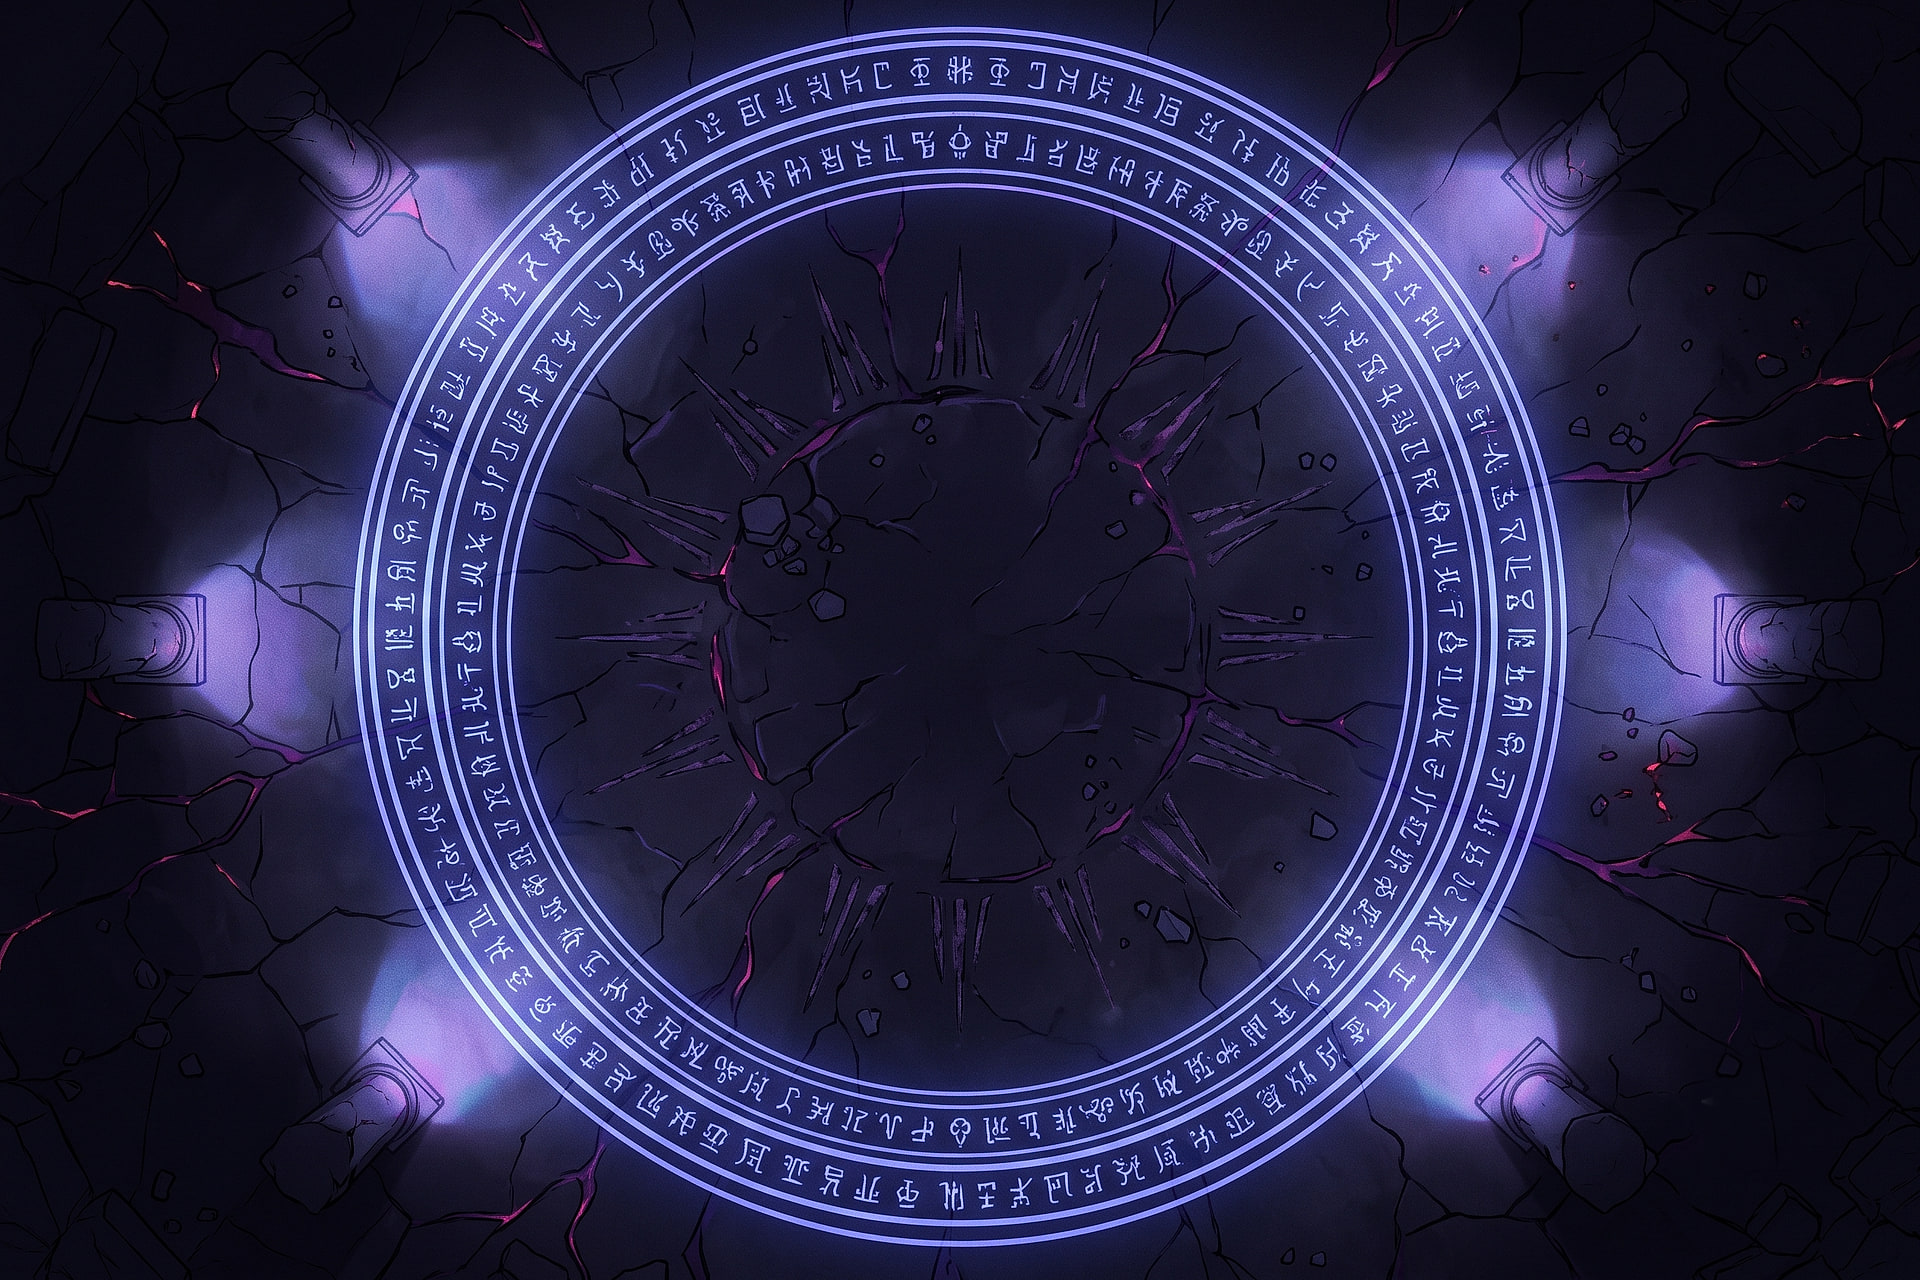
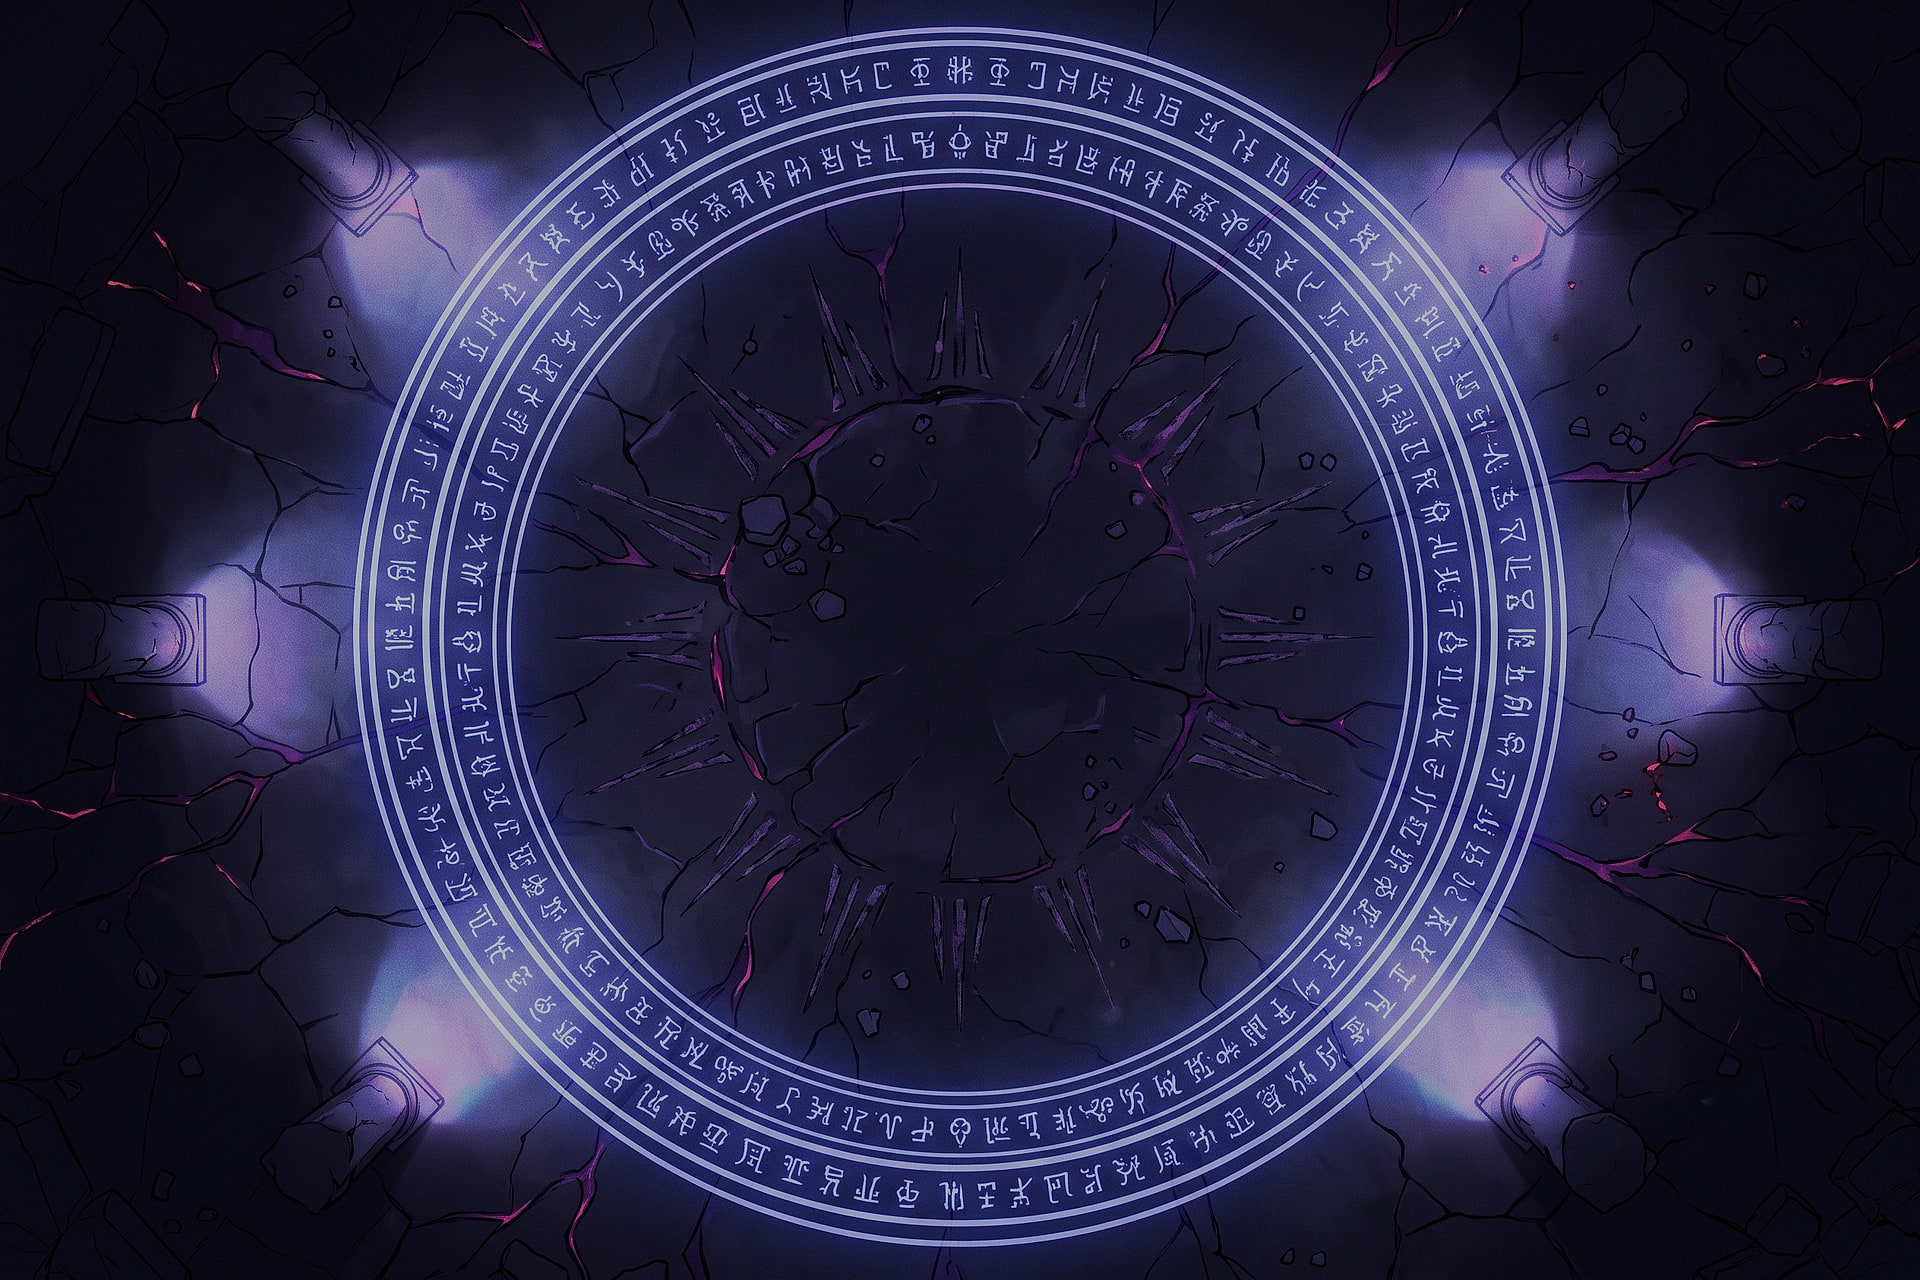
feat(render): 보스 배경 링 감광 + 사수 AI 스프라이트 적용
배경 위에서 몹이 씻겨나가는 문제와, AI 스프라이트를 적 색 구분 체계에 맞춰 넣는
작업을 함께 처리한다.

보스 배경 — 하이라이트 롤오프
- 전체를 어둡게 하면 바닥까지 죽으므로 밝은 영역만 선택적으로 감쇠하는 톤커브를
  적용(knee 0.40 / 최대 42%, 피크 255→191). 글리프 링이 부드러워져 그 위에 올라간
  몹·플레이어가 대비를 유지한다. 어두운 바닥·질감은 그대로.

사수 스프라이트
- 적은 색으로 구분된다(추격자 핑크 / 사수 주황 / 분열체 보라 / 파수꾼 청회색).
  AI 원본이 보라 계열이라 그대로 넣으면 분열체와 혼동되므로, 스프라이트를 무채색으로
  저장하고 인게임에서 타입 색을 틴트로 입힌다. 엘리트 변종 틴트에도 그대로 쓰인다.
- 검정 배경 + ADD 블렌딩이라 누끼가 필요 없다(실측: 배경 위에서 검은 사각 없이 합성).
- 텍스처가 없으면 기존 도형으로 폴백해 게임은 항상 동작한다.
- enemyJuice.playHitReact가 Shape 전용(setFillStyle)이라 스프라이트에서 깨졌다.
  Shape와 Image를 모두 받도록 일반화(도형은 채움색, 이미지는 틴트).

실측: enemy-shooter 256×256 로드, 생성된 사수 = Image/tint 0xffa62b/isTinted true/
ADD/46×46. tsc 통과, room backdrop 회귀 6군 통과.

Changed region(s): [[0.0938, 0.0, 0.9062, 1.0]]

diff --git a/src/combat-core/enemies/shooterEnemy.ts b/src/combat-core/enemies/shooterEnemy.ts
@@ -5,6 +5,8 @@ import type { CombatEnemy, EnemyDestroyOptions, EnemyShotRequest } from './comba
 import { playHitReact, playAttackLunge, playDeathPop } from './enemyJuice';
 
 const SHOOTER_COLOR = 0xffa62b;
+/** AI 생성 스프라이트 키. 무채색으로 저장돼 있어 타입 색을 틴트로 입힌다. */
+const SHOOTER_SPRITE_KEY = 'enemy-shooter';
 
 export class ShooterEnemy implements CombatEnemy {
   readonly kind = 'shooter' as const;
@@ -19,15 +21,23 @@ export class ShooterEnemy implements CombatEnemy {
   contactDamageCooldownRemaining = 0;
   private dying = false;
 
-  private readonly body: Phaser.GameObjects.Rectangle;
+  private readonly body: Phaser.GameObjects.Rectangle | Phaser.GameObjects.Image;
   private readonly healthFill: Phaser.GameObjects.Rectangle;
   private attackCooldownRemaining: number = SHOOTER_CONFIG.attackIntervalSeconds;
 
   constructor(scene: Phaser.Scene, x: number, y: number) {
     const glow = scene.add.rectangle(0, 0, 34, 34, 0xffb347, 0.14)
       .setBlendMode(Phaser.BlendModes.ADD);
-    this.body = scene.add.rectangle(0, 0, 24, 24, 0xffa62b)
-      .setStrokeStyle(2, 0xffd08a, 0.95);
+    // AI 스프라이트가 로드돼 있으면 사용한다. 스프라이트는 무채색이라 타입 색을 틴트로
+    // 입혀 적 색 구분 체계(추격자=핑크/사수=주황/분열체=보라)를 그대로 지킨다.
+    // 텍스처가 없으면 기존 도형으로 폴백해 게임은 항상 돌아간다.
+    this.body = scene.textures.exists(SHOOTER_SPRITE_KEY)
+      ? scene.add.image(0, 0, SHOOTER_SPRITE_KEY)
+        .setDisplaySize(46, 46)
+        .setTint(SHOOTER_COLOR)
+        .setBlendMode(Phaser.BlendModes.ADD)
+      : scene.add.rectangle(0, 0, 24, 24, SHOOTER_COLOR)
+        .setStrokeStyle(2, 0xffd08a, 0.95);
     const healthBack = scene.add.rectangle(-16, -25, 32, 4, 0x30200e, 0.9)
       .setOrigin(0, 0.5);
     this.healthFill = scene.add.rectangle(-16, -25, 32, 4, 0x72f1b8, 1)

diff --git a/src/combat-core/enemies/enemyJuice.ts b/src/combat-core/enemies/enemyJuice.ts
@@ -7,6 +7,14 @@ import Phaser from 'phaser';
 
 type Container = Phaser.GameObjects.Container;
 type Shape = Phaser.GameObjects.Shape;
+/** 피격 플래시 대상 — 도형과 스프라이트를 모두 받는다 (색 교체 API가 서로 다르다). */
+type FlashTarget = Shape | Phaser.GameObjects.Image;
+
+/** 도형이면 채움색, 스프라이트면 틴트로 동일한 "색 교체" 효과를 낸다. */
+function applyFlashColor(target: FlashTarget, color: number): void {
+  if (target instanceof Phaser.GameObjects.Image) target.setTint(color);
+  else target.setFillStyle(color);
+}
 
 function resetScaleTween(scene: Phaser.Scene, view: Container): void {
   scene.tweens.killTweensOf(view);
@@ -17,7 +25,7 @@ function resetScaleTween(scene: Phaser.Scene, view: Container): void {
 export function playHitReact(
   scene: Phaser.Scene,
   view: Container,
-  flashShape: Shape,
+  flashShape: FlashTarget,
   baseColor: number,
 ): void {
   resetScaleTween(scene, view);
@@ -32,9 +40,9 @@ export function playHitReact(
       if (view.active) view.setScale(1);
     },
   });
-  flashShape.setFillStyle(0xffffff);
+  applyFlashColor(flashShape, 0xffffff);
   scene.time.delayedCall(80, () => {
-    if (flashShape.active) flashShape.setFillStyle(baseColor);
+    if (flashShape.active) applyFlashColor(flashShape, baseColor);
   });
 }
 

diff --git a/src/scenes/ProtoScene.ts b/src/scenes/ProtoScene.ts
@@ -365,6 +365,11 @@ export class ProtoScene extends Phaser.Scene {
       'bg-boss',
       `${import.meta.env.BASE_URL}assets/backgrounds/arena-boss.jpg`,
     );
+    // 적 스프라이트 — 무채색으로 저장해두고 타입 색은 인게임 틴트로 입힌다
+    this.load.image(
+      'enemy-shooter',
+      `${import.meta.env.BASE_URL}assets/sprites/enemy-shooter.png`,
+    );
     // 로드 실패가 조용히 묻히지 않게 — 실패 시 원인·URL을 남기고 그리드 배경으로 폴백한다.
     this.load.on('loaderror', (file: Phaser.Loader.File) => {
       if (file.key === 'bg-stage1') {